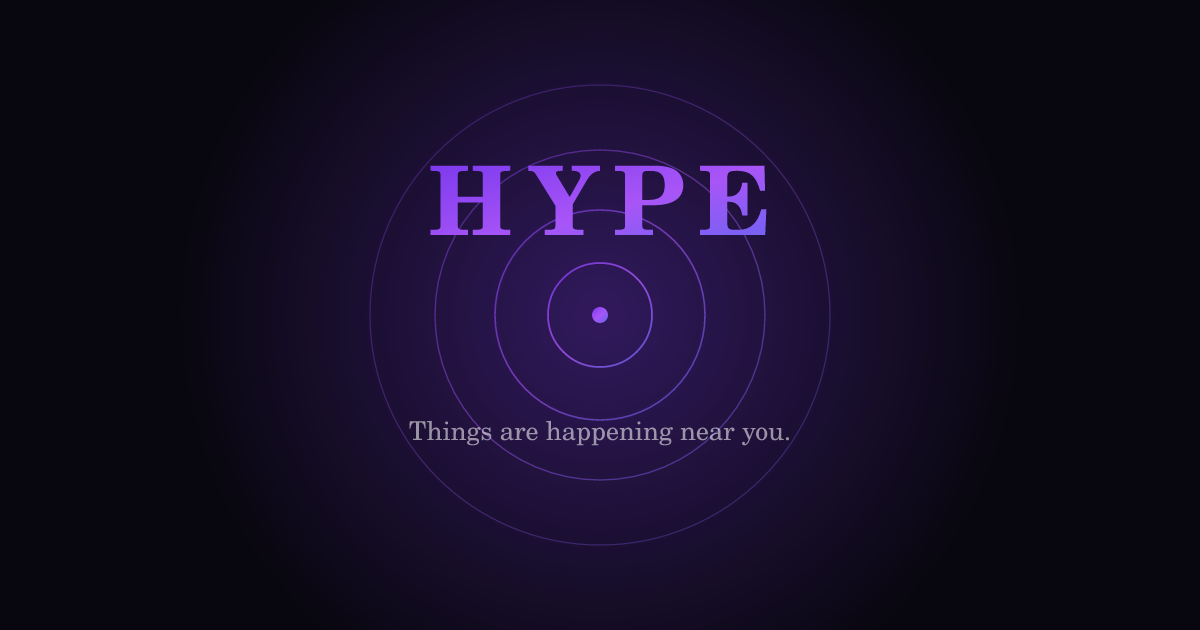
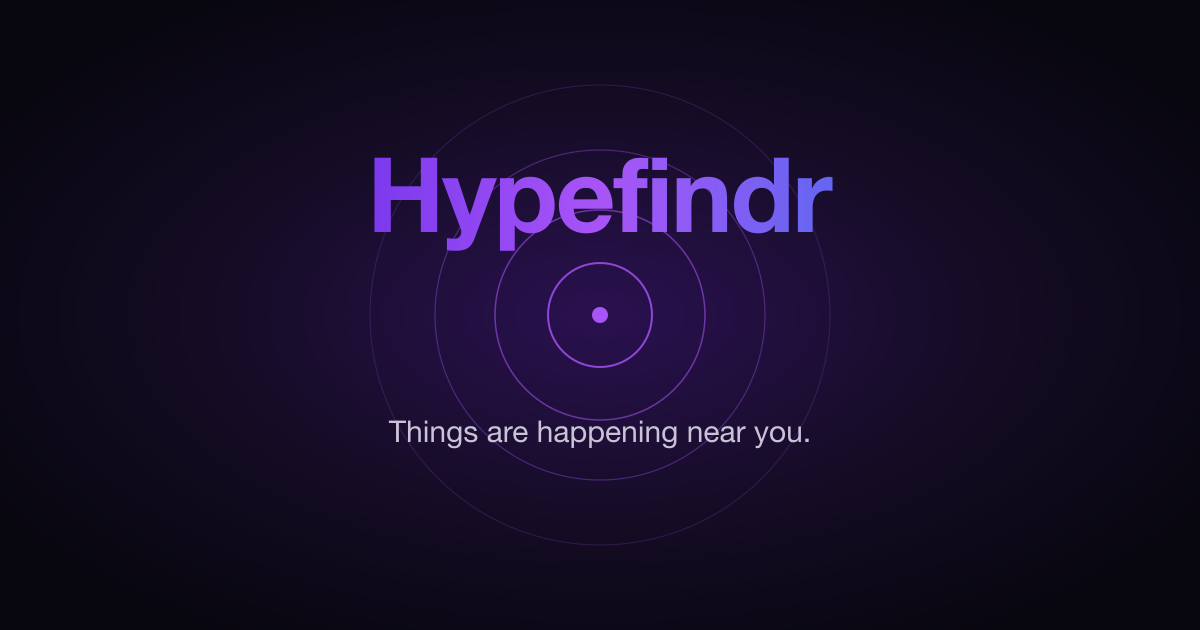
Switch to Inter and remove remaining HYPE branding
- Replace the Syne and DM Sans fonts with Inter across the site, with
  plainer heading weights and no wide letter spacing on the wordmark
- Rename every remaining "HYPE" to "Hypefindr": hero wordmark, section
  titles, About and invite pages, App Store label, site metadata, and
  the Terms and Privacy Policy
- Regenerate the link-preview image with the Hypefindr name
- Note 18+ on the home and About pages, describe check-ins accurately,
  and link the About page to all policies

Changed region(s): [[0.3083, 0.2413, 0.7092, 0.4222], [0.3083, 0.6635, 0.6783, 0.7238]]

diff --git a/app/about/page.tsx b/app/about/page.tsx
@@ -5,7 +5,7 @@ import { CONTACT_EMAIL } from "@/lib/constants";
 
 export const metadata: Metadata = {
   title: "About",
-  description: "About HYPE — a live, location-based social platform for real-world events.",
+  description: "About Hypefindr — a live, location-based social app for real-world events.",
 };
 
 export default function AboutPage() {
@@ -15,24 +15,24 @@ export default function AboutPage() {
 
       <div className="page-header">
         <div className="container">
-          <h1>About HYPE</h1>
+          <h1>About Hypefindr</h1>
           <p className="muted">Things are happening near you.</p>
         </div>
       </div>
 
       <main className="legal container">
         <p>
-          HYPE is a live, location-based social platform built around one idea: the most interesting things are
+          Hypefindr is a live, location-based social app built around one idea: the most interesting things are
           happening in the real world, right now, and you should be able to see them.
         </p>
         <p>
-          Instead of a feed of what already happened, HYPE gives you a live map of what&apos;s happening this
+          Instead of a feed of what already happened, Hypefindr gives you a live map of what&apos;s happening this
           second — nearby, or anywhere on earth. Watch a live stream from an event across town or across the
           world. Go live yourself and become the eyes for everyone who can&apos;t be there. Show up and check in
           to the moment. Build a crew and bring people with you.
         </p>
         <p>
-          As you use HYPE, you build an identity across four profiles — The Attendee, The Watcher, The Streamer,
+          As you use Hypefindr, you build an identity across four profiles — The Attendee, The Watcher, The Streamer,
           and The Connector — earning points and titles in each based on how you show up.
         </p>
 
@@ -47,7 +47,9 @@ export default function AboutPage() {
           <div className="about-card">
             <h3>Legal</h3>
             <p>
-              Read our <a href="/privacy">Privacy Policy</a> and <a href="/terms">Terms of Service</a>.
+              Hypefindr is for people 18 and older. Read our <a href="/terms">Terms of Service</a>,{" "}
+              <a href="/privacy">Privacy Policy</a> and <a href="/guidelines">Community Guidelines</a>, or see{" "}
+              <a href="/legal">all policies</a>.
             </p>
           </div>
         </div>

diff --git a/app/page.tsx b/app/page.tsx
@@ -8,7 +8,7 @@ const IDENTITIES = [
     color: "#e06030",
     icon: "/profiles/attendee.png",
     title: "The Attendee",
-    desc: "Shows up. Checks into the moment with photos and video from where it's actually happening.",
+    desc: "Shows up. Checks in at events and shares photos and video from where it's actually happening.",
   },
   {
     color: "#4a9eff",
@@ -84,7 +84,7 @@ export default function Home() {
           </svg>
 
           <div className="hero__content">
-            <span className="wordmark">HYPE</span>
+            <span className="wordmark">Hypefindr</span>
             <h1>Things are happening near you.</h1>
             <p className="hero__subhead">
               Watch, stream, and show up to what&apos;s live around you — and across the world.
@@ -94,7 +94,7 @@ export default function Home() {
             </div>
 
             <div className="hero__frame" aria-hidden="true">
-              <svg viewBox="0 0 280 560" role="img" aria-label="HYPE app preview: live map with nearby events">
+              <svg viewBox="0 0 280 560" role="img" aria-label="Hypefindr app preview: live map with nearby events">
                 <defs>
                   <linearGradient id="phoneBg" x1="0%" y1="0%" x2="100%" y2="100%">
                     <stop offset="0%" stopColor="#12101c" />
@@ -195,7 +195,7 @@ export default function Home() {
           <div className="container">
             <div className="section__head">
               <span className="section__eyebrow">Your identity</span>
-              <h2 className="section__title">Four ways to be at HYPE.</h2>
+              <h2 className="section__title">Four ways to use Hypefindr.</h2>
               <p className="section__lead">
                 You unlock who you are through what you do — earning points and titles as you show up, watch, stream, and connect.
               </p>
@@ -242,8 +242,8 @@ export default function Home() {
           <div className="container">
             <div className="cta-band">
               <div className="cta-band__inner">
-                <h2>Get HYPE.</h2>
-                <p>Things are happening near you, right now.</p>
+                <h2>Get Hypefindr.</h2>
+                <p>Things are happening near you, right now. For ages 18 and over.</p>
                 <div className="cta-band__buttons">
                   <AppStoreButton />
                   <GooglePlayButtonSoon />

diff --git a/app/layout.tsx b/app/layout.tsx
@@ -1,19 +1,11 @@
 import type { Metadata } from "next";
-import { DM_Sans, Syne } from "next/font/google";
+import { Inter } from "next/font/google";
 import { SITE_URL } from "@/lib/constants";
 import "./globals.css";
 
-const syne = Syne({
+const inter = Inter({
   subsets: ["latin"],
-  weight: ["700", "800"],
-  variable: "--font-syne",
-  display: "swap",
-});
-
-const dmSans = DM_Sans({
-  subsets: ["latin"],
-  weight: ["300", "400", "500"],
-  variable: "--font-dm-sans",
+  variable: "--font-inter",
   display: "swap",
 });
 
@@ -24,13 +16,13 @@ export const metadata: Metadata = {
     template: "%s — Hypefindr",
   },
   description:
-    "HYPE is a live, location-based social platform for real-world events. Discover what's happening near you, watch live streams from anywhere, go live, and show up.",
+    "Hypefindr is a live, location-based social app for real-world events. Discover what's happening near you, watch live streams from anywhere, go live, and show up.",
   openGraph: {
     type: "website",
     url: SITE_URL,
     title: "Hypefindr — Things are happening near you.",
     description:
-      "Discover events near you, watch live streams from anywhere in the world, go live, and show up. HYPE is a window into what's happening right now.",
+      "Discover events near you, watch live streams from anywhere in the world, go live, and show up. Hypefindr shows you what's happening right now.",
   },
   twitter: {
     card: "summary_large_image",
@@ -46,7 +38,7 @@ export default function RootLayout({
   children: React.ReactNode;
 }) {
   return (
-    <html lang="en" className={`${syne.variable} ${dmSans.variable}`}>
+    <html lang="en" className={inter.variable}>
       <body>{children}</body>
     </html>
   );

diff --git a/app/globals.css b/app/globals.css
@@ -1,5 +1,5 @@
 /* ==========================================================================
-   HYPE — Design tokens & global styles
+   Hypefindr — Design tokens & global styles
    ========================================================================== */
 
 :root {
@@ -28,8 +28,8 @@
   --radius: 14px;
   --radius-lg: 20px;
 
-  --font-display: var(--font-syne), system-ui, sans-serif;
-  --font-body: var(--font-dm-sans), system-ui, sans-serif;
+  --font-display: var(--font-inter), system-ui, -apple-system, "Segoe UI", Roboto, sans-serif;
+  --font-body: var(--font-inter), system-ui, -apple-system, "Segoe UI", Roboto, sans-serif;
 
   --container: 1160px;
 }
@@ -65,10 +65,10 @@ a {
 
 h1, h2, h3, h4 {
   font-family: var(--font-display);
-  font-weight: 800;
-  line-height: 1.08;
+  font-weight: 700;
+  line-height: 1.15;
   margin: 0;
-  letter-spacing: -0.01em;
+  letter-spacing: -0.02em;
 }
 
 p {
@@ -88,9 +88,9 @@ p {
 
 .wordmark {
   font-family: var(--font-display);
-  font-weight: 800;
+  font-weight: 700;
   font-size: 1.5rem;
-  letter-spacing: 0.1em;
+  letter-spacing: -0.01em;
   background: var(--grad-brand);
   -webkit-background-clip: text;
   background-clip: text;
@@ -542,7 +542,7 @@ p {
 
 .step__num {
   font-family: var(--font-display);
-  font-weight: 800;
+  font-weight: 700;
   font-size: 2.2rem;
   background: var(--grad-brand);
   -webkit-background-clip: text;

diff --git a/components/AppStoreButton.tsx b/components/AppStoreButton.tsx
@@ -5,7 +5,7 @@ export function AppStoreButton({ className = "" }: { className?: string }) {
     <a
       href={APP_STORE_URL}
       className={`appstore-btn ${className}`.trim()}
-      aria-label="Download HYPE on the App Store"
+      aria-label="Download Hypefindr on the App Store"
     >
       <svg width="24" height="24" viewBox="0 0 24 24" fill="#fff">
         <path d="M16.365 1.43c0 1.14-.475 2.11-1.293 2.86-.844.77-2.02 1.36-3.17 1.27-.114-1.13.47-2.28 1.28-3.03.85-.79 2.31-1.37 3.18-1.1zM20.6 17.14c-.5 1.15-.74 1.66-1.38 2.68-.9 1.44-2.16 3.23-3.73 3.25-1.4.02-1.76-.91-3.66-.9-1.9.01-2.3.92-3.7.9-1.57-.02-2.76-1.63-3.66-3.07-2.51-3.98-2.77-8.65-1.22-11.14.99-1.59 2.63-2.52 4.17-2.52 1.57 0 2.55.9 3.85.9 1.26 0 2.02-.9 3.85-.9 1.32 0 2.72.72 3.72 1.96-3.27 1.79-2.74 6.43.72 7.81z" />

diff --git a/components/InviteClient.tsx b/components/InviteClient.tsx
@@ -13,7 +13,7 @@ export function InviteClient({ code }: { code: string }) {
 
   return (
     <div className="invite__card">
-      <span className="wordmark wordmark--sm">HYPE</span>
+      <span className="wordmark wordmark--sm">Hypefindr</span>
       <h1 style={{ fontSize: "1.4rem", marginTop: "18px" }}>You&apos;re invited.</h1>
       <p>Redirecting you to the App Store…</p>
       <div className="invite__code">{code}</div>

diff --git a/app/i/[code]/page.tsx b/app/i/[code]/page.tsx
@@ -5,7 +5,7 @@ import { InviteClient } from "@/components/InviteClient";
 
 export const metadata: Metadata = {
   title: "You're invited",
-  description: "Join HYPE with your invite code.",
+  description: "Join Hypefindr with your invite code.",
   robots: { index: false, follow: false },
 };
 

diff --git a/content/legal/terms.md b/content/legal/terms.md
@@ -8,7 +8,7 @@
 
 **1.1 Who we are.** Hypefindr is an independent project created and run by its founders from Northfield, Minnesota, United States. In these Terms, "Hypefindr," "we," "us" and "our" mean the Hypefindr project and the people who create and operate it. These Terms of Service ("Terms") are a binding contract between you and us.
 
-**1.2 The Services.** These Terms govern your use of the Hypefindr mobile app, including any version branded "HYPE"; the website at hypefindr.net and its subdomains; invite and share links; and every feature, content item, communication and service we provide (together, the "Services").
+**1.2 The Services.** These Terms govern your use of the Hypefindr mobile app; the website at hypefindr.net and its subdomains; invite and share links; and every feature, content item, communication and service we provide (together, the "Services").
 
 **1.3 Documents that are part of these Terms.** The following are incorporated into these Terms by reference: the [Privacy Policy](/privacy), [Community Guidelines](/guidelines), [Live Streaming and Recording Policy](/legal/live-streaming), [Events, Safety and Assumption of Risk Policy](/legal/events-safety), [Child Safety Policy](/legal/child-safety), [Content Removal Requests](/legal/content-removal) policy, [Points, Scores and Referral Program Terms](/legal/points-and-referrals), [Enforcement, Moderation and Appeals Policy](/legal/enforcement), [Law Enforcement Guidelines](/legal/law-enforcement) and [Website and Cookie Notice](/legal/cookies). Terms we show you inside a specific feature also apply. If these Terms conflict with another of those documents, these Terms control, unless the other document expressly says it controls on that point.
 
@@ -109,7 +109,7 @@
 
 ### 7. Our intellectual property
 
-**7.1 What we own.** The Services, including the software, code, design, interface, text, graphics, maps as presented, scores, titles, badges, algorithms, data compilations, and the names and logos Hypefindr and HYPE, belong to Hypefindr or its licensors. They are protected by copyright, trademark and other laws. All rights not expressly granted to you are reserved.
+**7.1 What we own.** The Services, including the software, code, design, interface, text, graphics, maps as presented, scores, titles, badges, algorithms, data compilations, and the Hypefindr name and logos, belong to Hypefindr or its licensors. They are protected by copyright, trademark and other laws. All rights not expressly granted to you are reserved.
 
 **7.2 Your license to use the app.** Subject to these Terms, we give you a limited, personal, revocable, non-exclusive, non-transferable, non-sublicensable license to install and use the app on a device you own or control, and to use the Services, for your personal, non-commercial use. An organization may use the Services to promote its own lawful events within the rules of these Terms. This license ends automatically when your account ends or you breach these Terms.
 

diff --git a/content/legal/privacy.md b/content/legal/privacy.md
@@ -15,7 +15,7 @@ The full policy follows. Capitalized terms not defined here have the meaning giv
 
 **1.1 Who is responsible.** Hypefindr is an independent project run by its founders from {{MAILING_ADDRESS}}. We ("Hypefindr," "we," "us") are responsible for your personal data. Contact details are in Section 16.
 
-**1.2 Scope.** This policy covers personal data we collect through the Hypefindr app (including any version branded "HYPE"), the website hypefindr.net, invite and share links, and our communications with you (together, the "Services"). It also covers people who do not have an account but whose data we receive: website visitors, people who appear in User Content, people named in reports, and people who send us requests.
+**1.2 Scope.** This policy covers personal data we collect through the Hypefindr app, the website hypefindr.net, invite and share links, and our communications with you (together, the "Services"). It also covers people who do not have an account but whose data we receive: website visitors, people who appear in User Content, people named in reports, and people who send us requests.
 
 **1.3 What it does not cover.** It does not cover services run by others, even if you reach them through Hypefindr, such as Apple, Google, ticketing sites or venue websites. Their own privacy policies apply.
 
